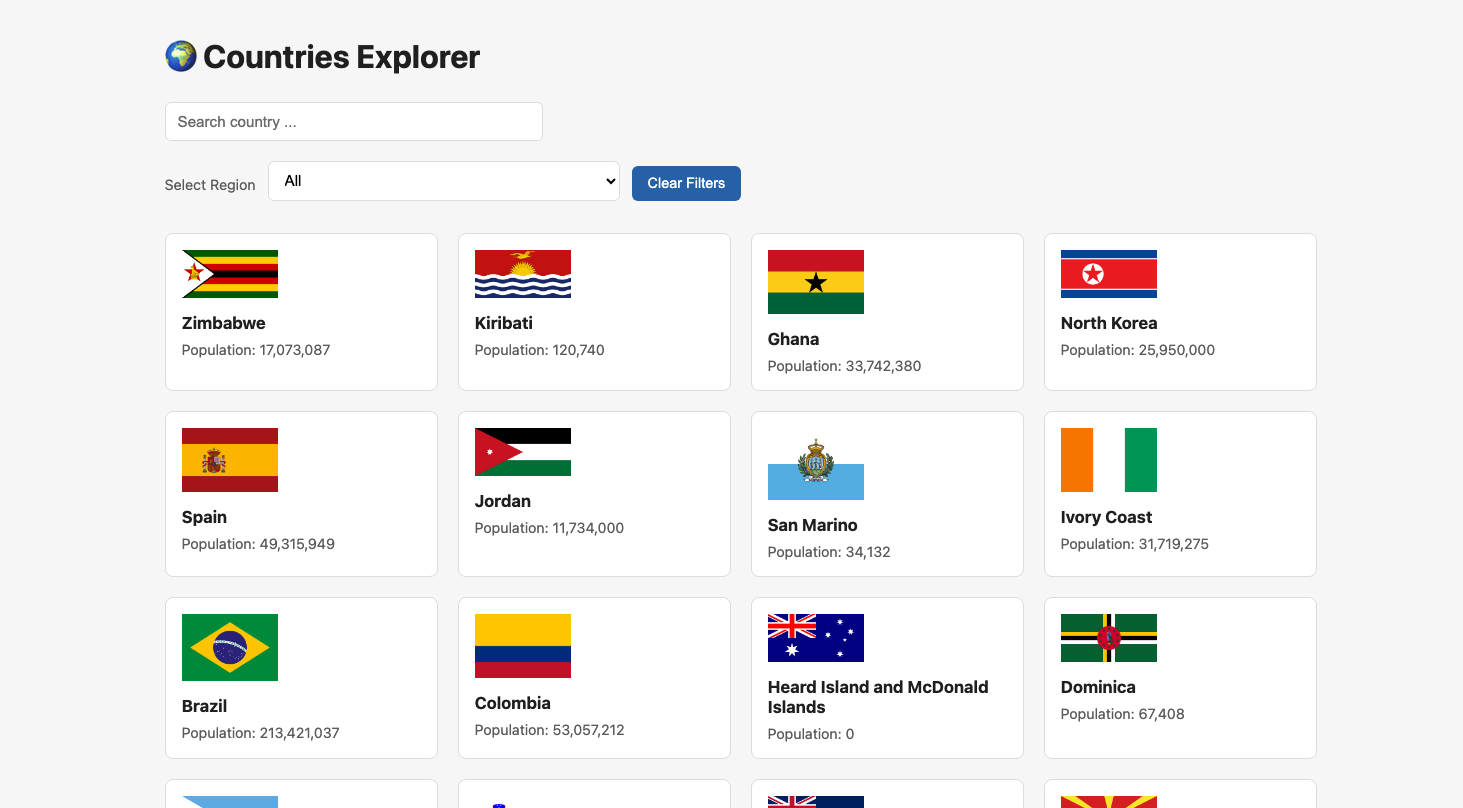
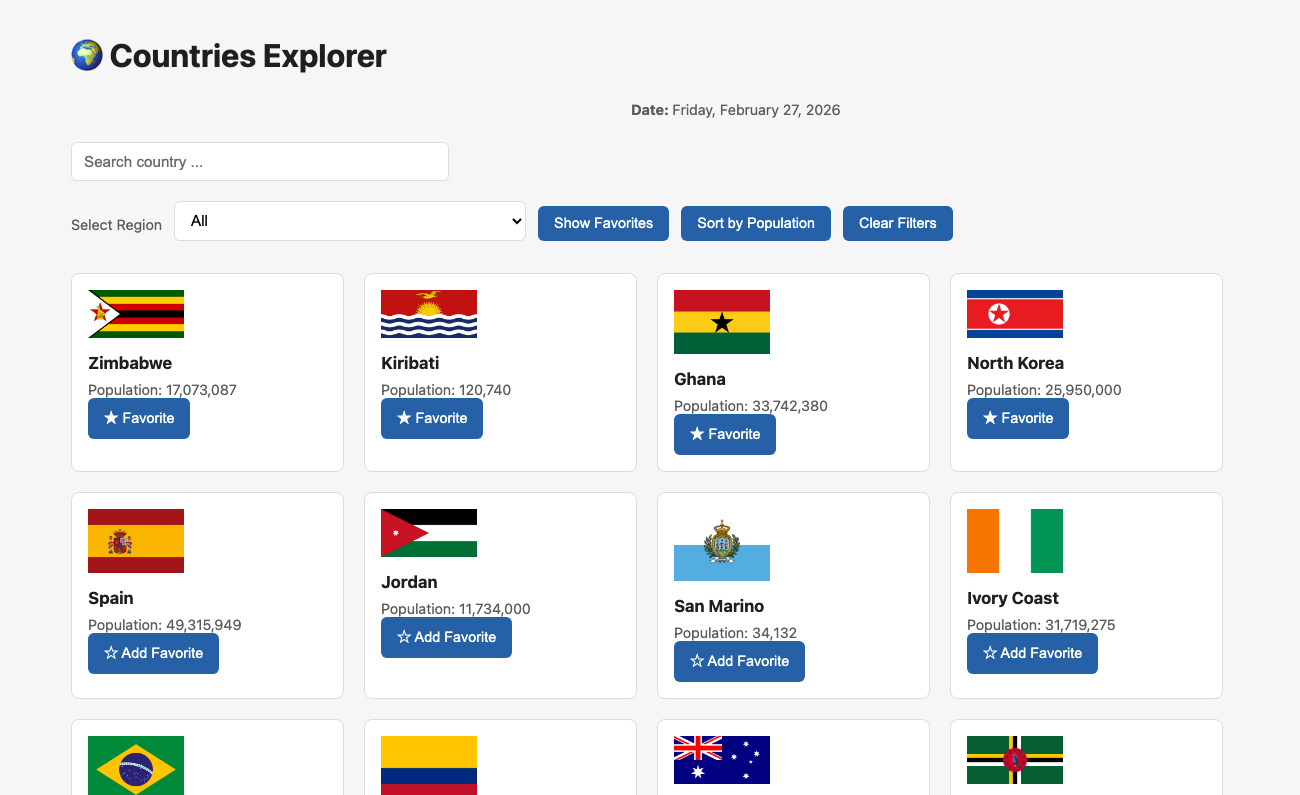
Add date and update README

diff --git a/src/App.jsx b/src/App.jsx
@@ -77,6 +77,7 @@ function App() {
       setLoading(false);
     }
   };
+
   /* ------------ Effect ------------ */
   useEffect(() => {
     fetchCountries();
@@ -103,10 +104,18 @@ const visibleCountries = showFavoritesOnly
     setShowFavoritesOnly(false);
   };
 
+const today = new Date().toLocaleDateString(undefined, {
+  weekday: "long",
+  year: "numeric",
+  month: "long",
+  day: "numeric",
+});
+
   /* ------------ UI ------------ */
   return (
     <div className="main_container">
       <h1>🌍 Countries Explorer</h1>
+      <p className="date"> <b>Date: </b>{today}</p>
 
       {/* Controls */}
      <Filters

diff --git a/src/App.css b/src/App.css
@@ -132,3 +132,10 @@ p {
   font-size: 0.9rem;
   color: var(--muted);
 }
+
+.date {
+  margin-bottom: 1.5rem;
+  font-size: 0.9rem;
+  color: var(--muted);
+  padding-left: 35rem;
+}

diff --git a/README.md b/README.md
@@ -8,14 +8,16 @@ Users can search for countries by name, filter them by region, and view key deta
 ![HomePageScreenshot](src/assets/home.png)
 ## 🚀 Features
 
-- Fetches real country data from a public API
-- Search countries by name
+- Fetches real country data from a public REST API
+- Search countries by name (debounced)
 - Filter countries by region
+- Sort countries by population (high → low)
+- Mark countries as favorites (saved in `localStorage`)
+- Filter to show only favorite countries
+- Clear all filters with one click
+- Displays current date
 - Loading and error handling
-- Retry button on failed requests
-- Clear filters functionality
-- Safe rendering for missing data
-- Responsive and user-friendly UI
+- Safe rendering for missing API fields
 
 ---
 
